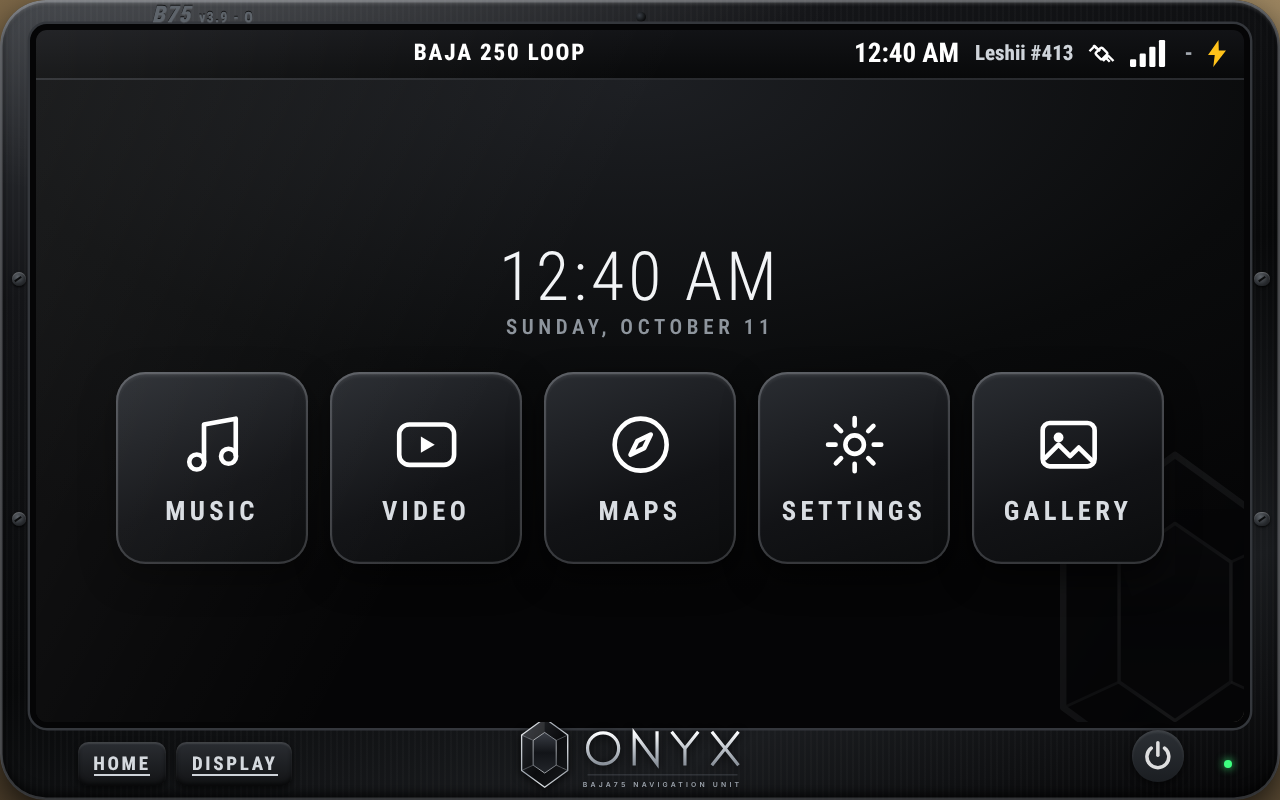
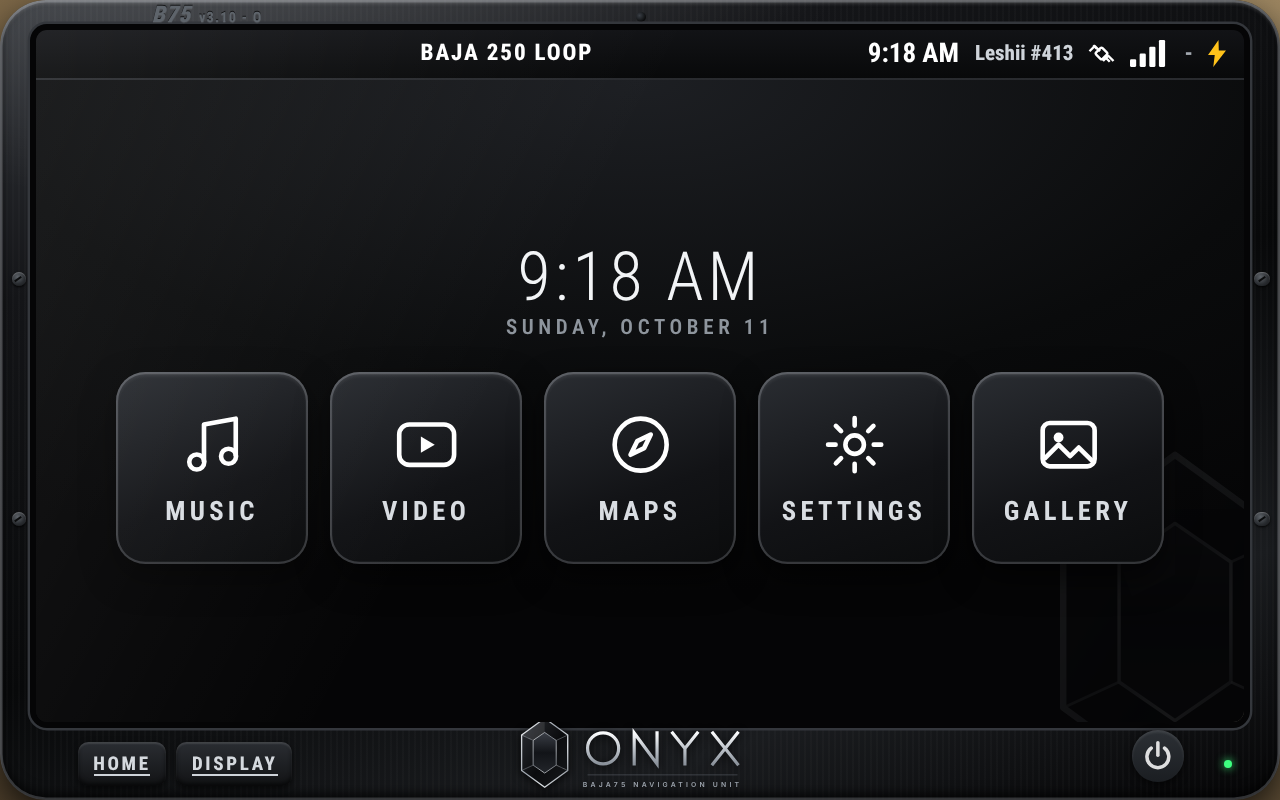
v3.10: v3.10: notice when the server's copy and a repo copy are both loaded
Claude-Session: https://claude.ai/code/session_018ozQf74wNZmob9Gahvuwme

Changed region(s): [[0.375, 0.3125, 0.625, 0.375], [0.3125, 0.0312, 0.4688, 0.0938], [0.6562, 0.0625, 0.7188, 0.0938]]

diff --git a/ui/modules/apps/Baja75-GPS/app.js b/ui/modules/apps/Baja75-GPS/app.js
@@ -17,7 +17,7 @@
   var APP_DIR = '/ui/modules/apps/Baja75-GPS/';
   var ICON_DIR = APP_DIR + 'Baja75-GPSicons/';
   var EV = 'TreadXLGPS.';
-  var VERSION = '3.9';
+  var VERSION = '3.10';
   // which build this is: 'full' (all four modes), 'chase', 'rally', 'track' (single-mode editions), 'common' or 'free'; dev/package.py sets it
   var EDITION = 'onyx';
   var EDITION_NAME = { full: '', chase: 'Chase Edition', rally: 'Rally Edition', track: 'Track Edition', common: 'Common Edition', free: 'Free Edition', onyx: 'Onyx Edition' }[EDITION] || '';
@@ -1403,7 +1403,7 @@
   };
   // a message from the game script (a key that isn't needed here, keys on another server, ...)
   // v3.9: after an update, once: what's new (not on the very first start, not over the sign-in or another sheet)
-  var WHATS_NEW = ['3D map view (tap the compass), turn guidance and a live gap to your best run',
+  var WHATS_NEW = ['On a BeamMP server, a notice when the server\u2019s copy and a copy in your mods/repo folder are both loaded (and how to fix it)', '3D map view (tap the compass), turn guidance and a live gap to your best run',
     'MENU \u203a Display: Map frame rate, settings backup / restore / reset, and every key listed',
     'New data fields: GAP TO BEST, TIME TO FINISH, G-FORCE \u00b7 Button 4 = Clean map, Button 5 = night map'];
   P.whatsNew = function () {
@@ -1431,7 +1431,7 @@
   P.renderBanner = function () {
     var txt = '';
     if (this.hello) {
-      if (String(this.hello.version) !== VERSION) txt = 'Game script v' + this.hello.version + ' but screen v' + VERSION + ': more than one Baja75 Navigation Unit zip in your mods folder? Keep only the newest one and restart the game.';
+      if (String(this.hello.version) !== VERSION) txt = 'Game script v' + this.hello.version + ' but screen v' + VERSION + ': more than one Baja75 Navigation Unit installed. On a server: to fix this, remove any/all versions from your mods/repo folder (the server gives you its own). Otherwise keep only the newest zip in mods, then restart the game.';
       else if (this.hello.edition && this.hello.edition !== EDITION) txt = 'Two editions are installed (' + this.hello.edition + ' and ' + EDITION + '): keep only one Baja75 Navigation Unit zip in your mods folder and restart the game.';
     } else if (this.helloTries) {
       txt = this.hudSeen

diff --git a/README.md b/README.md
@@ -218,6 +218,10 @@ The round button at the far right of the bezel, next to the green light (hover: 
 
 Every edition also keeps the standard **Baja75** look. The Onyx Edition has its own metallic black design.
 
+## Playing on a BeamMP server (v3.10)
+
+If the server gives you the unit and you also have a copy from the in-game repository, both load and the unit can ask for a password or warn about two versions. The unit now tells you: **to fix this, remove any/all versions from your mods/repo folder**, then restart the game.
+
 ## Polish (v3.9)
 
 - After an update the unit shows a short *What's new* once. Restoring settings from a file checks every value, so an old or edited file can't break anything.
